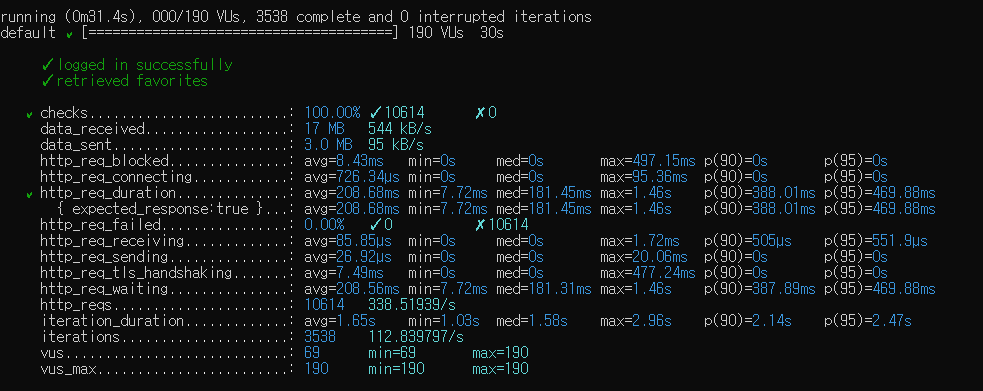
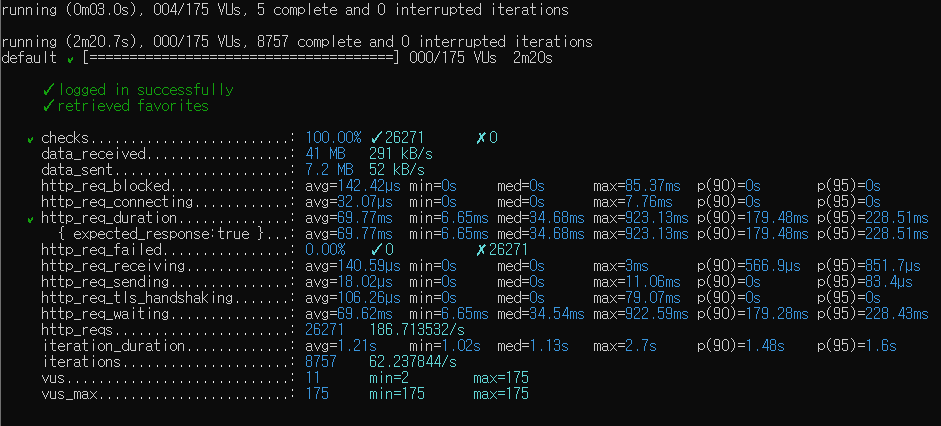
fix : [STEP2] Feedback 반영 경쟁자 비교, ramp-up 으로 loadtest 변경

diff --git a/README.md b/README.md
@@ -64,8 +64,18 @@ https://thread.honbabzone.com/
 #### 1. 웹 성능예산은 어느정도가 적당하다고 생각하시나요
  - 아직 웹 성능 예산을 작성하거나, 성능 테스트를 진행 해본 적이 없어 3초의 법칙에 기반하여, 수업시간데 배운대로 정량적 지표를 사용하여 예산을 짠다면
 ```
+* 경쟁사 - 서울 지하철  https://smapp.seoulmetro.co.kr:58443/traininfo/traininfoUserView.do
+
  # WebPageTest : 최소 B 이상 
- # PageSpeed : 80점 이상 , SpeedIndex 3초 이내 
+ ## 페이지 로드 시간    3초 미만
+
+ # PageSpeed : 총점 70점 이상 
+ ## First Contentful Paint (FCP) : 1초 미만
+ ## Time to Interactive (TTI) : 2초 미만
+ ## Speed Index : 3초 미만
+ ## Total Blocking Time : 150ms 미만
+ ## Large Contentful Paint (LCP) : 3초 미만 
+
  # 메인 페이지의 모든 오브젝트 파일 크기는 10MB 미만으로 제한한다.
  # 모든 웹 페이지의 각 페이지 내 포함된 자바스크립트 크기는 1MB를 넘지 않아야 한다.
 ```
@@ -88,9 +98,9 @@ https://thread.honbabzone.com/
 # 목푯값 설정
 :latency : 90%가 400ms 이하, 95% 800ms 이하, 99.9% 1.5s 이하 응답 ( load test 기준 )
 :throughput : TPS
- - 1일 총 접속수 = 10000 * 10
+ - 1일 총 접속수 = 5000 * 10
  - 1일 평균 rps = 1.16
- - 1일 최대 rps = 10.16
+ - 1일 최대 rps = 5.8
  - 부하 유지기간 : 30s 
 
 # 시나리오 대상 
@@ -178,14 +188,22 @@ export function 경로_조회하기(loginRes) {
 ![smoke-test.png](smoke-test.png)
 
  - load test
-
+ 
 ```
 import http from 'k6/http';
 import { check, group, sleep, fail } from 'k6';
 
+//1일 평균 rps = 1.16
+//1일 최대 rps = 10.16
 export let options = {
-  vus: 190, 
-  duration: '30s',
+ stages: [
+    { duration: '30s', target: 35 },
+    { duration: '30s', target: 35 },
+    { duration: '10s', target: 0 },
+    { duration: '30s', target: 175 },
+    { duration: '30s', target: 175 },
+    { duration: '10s', target: 0 },
+  ],
   thresholds: {
     http_req_duration: ['p(90) < 400', 'p(95) < 800', 'p(99.9) < 1500'],
     checks: ['rate > 0.99'],
